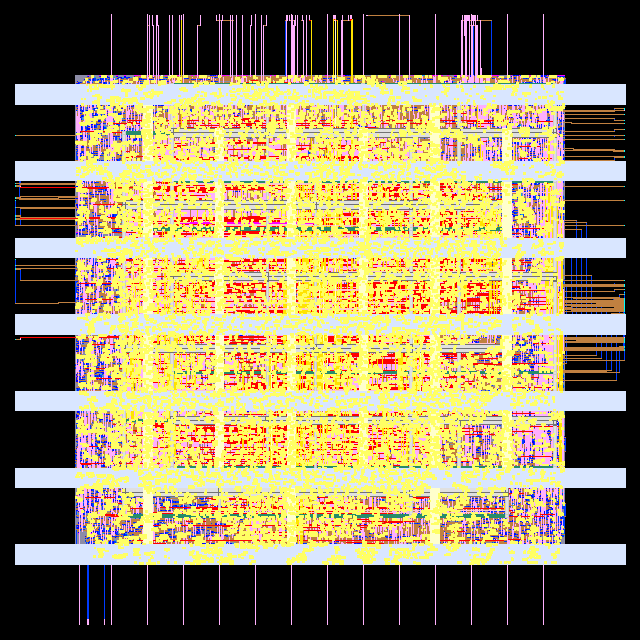
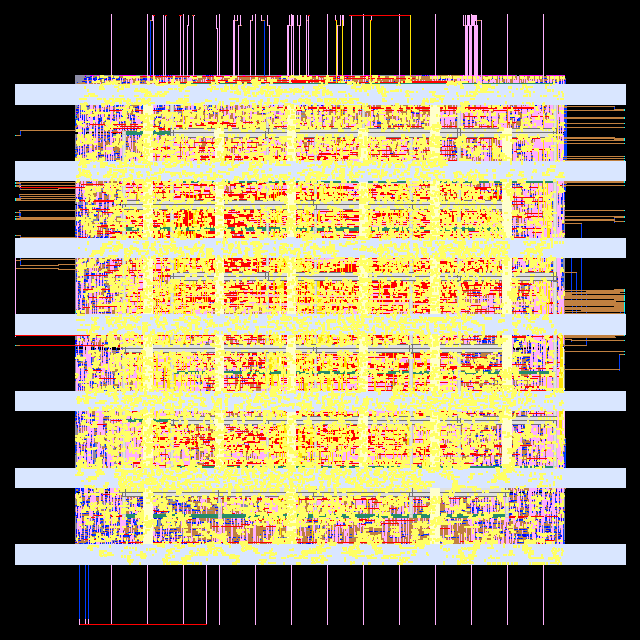
ALU gt2n: 1.33 GHz, 0 route DRC
750 ps with +14 ps (1.9%) setup slack and hold met, now that rows
crossed by M2 power stripes are kept free of cells. READMEs updated.

diff --git a/examples/PPA-opt-32b-alu-bekiryy/README.md b/examples/PPA-opt-32b-alu-bekiryy/README.md
@@ -81,15 +81,16 @@ on gt2n, see below).
 | icsprout55 | 55 nm | LibreLane | 333.3 MHz | +24 ps (0.8%) | 19.8 mW* | 59.5 pJ | 36.2 MHz | 2.15 mW* | 59.6 pJ | 67,236 µm² | 67% | 0 |
 | nangate45 | 45 nm | ORFS | 806.5 MHz | +2 ps (0.2%) | 32.9 mW | 40.8 pJ | 87.5 MHz | 4.61 mW | 52.7 pJ | 48,569 µm² | 57% | 0 |
 | asap7 | 7 nm | ORFS | 1.56 GHz | +1 ps (0.1%) | 12.3 mW | 7.88 pJ | 169.5 MHz | 1.33 mW | 7.88 pJ | 3,570 µm² | 57% | 0 |
-| gt2n | 2 nm | ORFS | 1.28 GHz | +22 ps (2.8%) | 6.0 mW | 4.68 pJ | 139.1 MHz | 0.82 mW | 5.89 pJ | 1,662 µm² | 50% | 2 |
+| gt2n | 2 nm | ORFS | 1.33 GHz | +14 ps (1.9%) | 6.3 mW | 4.71 pJ | 144.6 MHz | 0.85 mW | 5.89 pJ | 1,662 µm² | 50% | 0 |
 | GPDK045 (reference) | 45 nm | Genus/Innovus | 1.66 GHz | +21 ps (3.5%) | 51.9 mW | 31.3 pJ | 180 MHz | 3.30 mW | 18.3 pJ | ≈67,700 µm²† | 77% | – |
 
 **gt2n is slower than asap7** on this design. Its low metal layers are very
 resistive, so long or high-fanout nets cost far more delay than at 7 nm, and
-the critical input-to-output path ends up at about 450 ps of a 780 ps clock.
-It runs at 47% target utilization (50% measured) with GT2N's 100 ps slew
-limit from this repo's gt2n settings. Its layout still has 2 M1 end-of-line
-spacing violations after detailed routing; that is being worked on.
+the critical input-to-output path ends up at about 420 ps of a 750 ps clock.
+It runs at 47% target utilization (50% measured) with the 100 ps slew limit
+from this repo's gt2n settings, which also keep standard cells out of the rows
+crossed by M2 power stripes (otherwise detailed routing leaves M1 end-of-line
+violations there).
 
 - Setup slack is the worst typical-corner slack at signoff (for LibreLane,
   over all RC corners), in turbo mode. Hold is met everywhere.

diff --git a/README.md b/README.md
@@ -178,7 +178,10 @@ Upstream files are not stored here; these are added or derived on install.
   [`overlays/gt2n/w31_svtlvt.mk`](overlays/gt2n/w31_svtlvt.mk), the shared
   library/PDN settings a gt2n design includes, and
   [`overlays/gt2n/post_pdn.tcl`](overlays/gt2n/post_pdn.tcl), which removes an
-  empty power wire the PDN leaves with this OpenROAD (KLayout cannot read it).
+  empty power wire the PDN leaves with this OpenROAD (KLayout cannot read it)
+  and keeps standard cells out of the rows crossed by M2 power stripes (those
+  rows have too few free M2 tracks for pin access, which leaves M1
+  end-of-line route DRC violations).
 - **icsprout55:** [`overlays/icsprout55`](overlays/icsprout55) provides the
   LibreLane configs, a KLayout LEF/DEF-to-GDS layer map built from upstream's
   layer map, and fill, decap and well-tap cells (the logic cells have no
@@ -216,7 +219,7 @@ from a fresh `install_pdks.py` install. All tests use public example designs.
 | icsprout55 | LibreLane | `tests/librelane/run_spm.sh icsprout55` | pass: GDS, 0 route DRC, typical-corner timing met |
 | nangate45 | ORFS | `tests/orfs/run.sh nangate45` | pass: GDS, 0 route DRC |
 | asap7 | ORFS | `tests/orfs/run.sh asap7` | pass: GDS, 0 route DRC |
-| gt2n | ORFS | `tests/orfs/run.sh gt2n aes` | GDS, PDN connected, timing met; 1 M1 route DRC violation since the 100 ps slew limit (2026-10-26) |
+| gt2n | ORFS | `tests/orfs/run.sh gt2n aes` | pass: GDS, 0 route DRC, PDN connected, timing met (2026-10-27) |
 | osu025 | ORFS | `tests/orfs/run.sh osu025` | pass: GDS, 0 route DRC, timing met |
 
 `scripts/rtl2gds.sh` was checked on all eight PDKs on 2026-10-26 (LibreLane's
